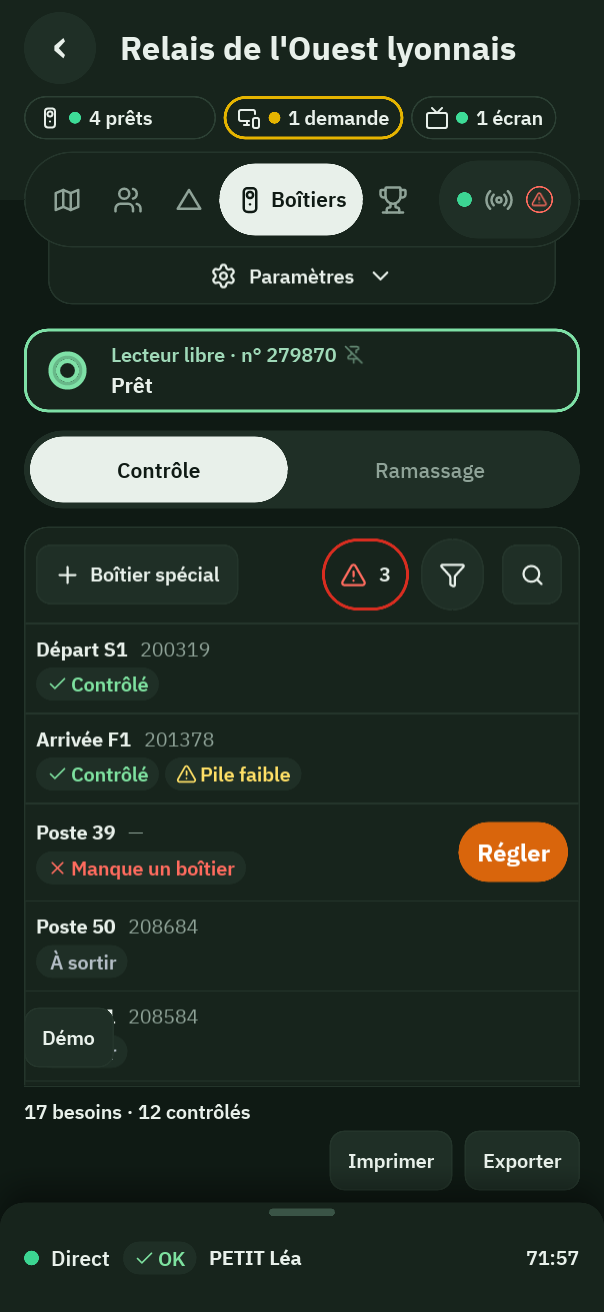
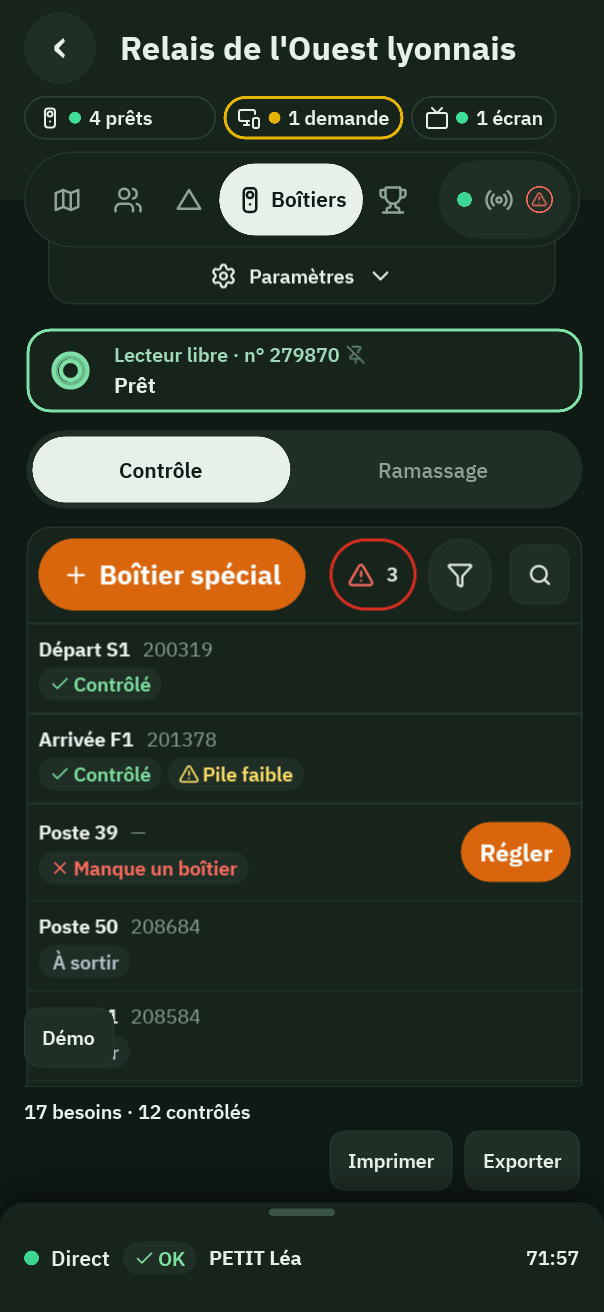
Smaller bubbles, orange special station, runner base under the header
- Filter pills are as wide as their word and wrap (FlexboxLayout);
  bubbles are 340 px wide, as in the zones-and-tabs brief.
- « Boîtier spécial » is the orange action of the Boîtiers tab.
- Coureurs et clubs has no Paramètres tab: its content starts right
  under the header.

diff --git a/ECRANS.md b/ECRANS.md
@@ -25,14 +25,14 @@ Appliqué aux écrans 2 à 10 : bulle d'onglets à cheval sur l'en-tête, langue
 - **Direct** : gardé en volet (décision de Robin du 10/11), donc 5 onglets dans la bulle et le bouton Direct à son bout ; pas de languette.
 - **Languette sur téléphone** : « Paramètres » seul, le résumé se lit en l'ouvrant (Robin, 10/11) ; flèche `chevron-down` ajoutée à la charte avec `funnel`.
 - **Filtres actifs sur téléphone** : l'entonnoir et leur nombre, sans les étiquettes, qui ne tiendraient pas.
-- **Groupes de filtres ajoutés** : Participants « À vérifier » (Doublons possibles, Catégorie inconnue) et l'état « PM », pour que chaque « Voir » de l'alerte ait son filtre ; Direct « Lectures : À traiter » ; Coureurs, un seul groupe « Coureurs » (licence et pratique mêlées, un seul choix).
-- **Bulles des filtres et de l'alerte** : collées à leur bouton, comme les autres bulles (variante B), au lieu de flotter dessous comme sur les captures du brief.
+- **Groupes de filtres ajoutés** (validés par Robin le 11/11) : Participants « À vérifier » (Doublons possibles, Catégorie inconnue) et l'état « PM », pour que chaque « Voir » de l'alerte ait son filtre ; Direct « Lectures : À traiter » ; Coureurs, un seul groupe « Coureurs » (licence et pratique mêlées, un seul choix).
+- **Bulles des filtres et de l'alerte** : collées à leur bouton, comme les autres bulles (variante B). Ramenées à 340 px de large, comme les captures du brief ; chaque pastille de filtre a la largeur de son mot et passe à la ligne s'il le faut (Robin, 11/11 : « beaucoup trop grandes »). Sur téléphone, la bulle des filtres défile si elle touche la bande du bas.
 - **Indicateurs sur iPad portrait** : sous le nom de l'événement, sinon la bulle cachait la 2ᵉ ligne du nom.
-- **Boîtiers** : « Boîtier spécial » reste blanc, la carte de lecture ayant déjà son bouton orange. Contrôle / Ramassage reste un affichage, dans le volet.
+- **Boîtiers** : « Boîtier spécial » en orange (Robin, 11/11 : l'orange va aux boutons importants et souvent utilisés). Contrôle / Ramassage reste un affichage, dans le volet.
 - **Circuits** : pas de filtre ; « Mettre en avant » reste un affichage. Les réglages d'un circuit restent dans sa carte.
 - **Résultats** : le choix du classement reste dans le volet ; seules les catégories d'un classement par circuit passent dans les Filtres.
 - **Puces et Boîtiers du club** : le choix du parc reste un affichage (volet, ou pastilles sur téléphone) ; la languette donne la description du parc.
-- **Coureurs et clubs** : pas de paramètres, donc pas de languette ; « Ajouter un coureur » passe en orange.
+- **Coureurs et clubs** : pas de paramètres, donc pas de languette ; le contenu monte juste sous l'en-tête, la page étant indépendante (Robin, 11/11) ; « Ajouter un coureur » passe en orange.
 - **Fiche** : ses boutons orange passent en blanc (« Garder le premier résultat ») ; les actions de ligne restent orange.
 - **Non testé** : Échap au clavier, iPad paysage, la fiche ouverte sur toutes les pages du club.
 

diff --git a/CLAUDE.md b/CLAUDE.md
@@ -22,7 +22,7 @@ Le code pourra servir de point de départ à l'app (à confirmer avec Severin) :
 ## Navigation (cadrage validé)
 - Comme le prototype : l'**Accueil** est une page qui défile, **sans onglets**, avec deux sections : Événements et Le club.
 - Depuis Le club : Puces de prêt (stock de prêt), Boîtiers (inventaire du club), Coureurs et clubs (base fédérale). Retour par « ‹ Accueil » (« ‹ » seul en largeur étroite).
-- Paramètres (brief zones-onglets, 10/11/2026) : une languette « ⚙ Paramètres : résumé » centrée, accrochée sous la bulle des onglets (sous l'en-tête sur les pages du club), qui se déplie par-dessus le contenu. Sans paramètres : pas de languette, le contenu commence à la même hauteur. Les réglages d'un circuit ou d'un point de départ restent dans leur carte.
+- Paramètres (brief zones-onglets, 10/11/2026) : une languette « ⚙ Paramètres : résumé » centrée, accrochée sous la bulle des onglets (sous l'en-tête sur les pages du club), qui se déplie par-dessus le contenu. Sans paramètres : pas de languette ; dans un événement, le contenu commence à la même hauteur ; sur une page du club (Coureurs et clubs), il monte sous l'en-tête. Les réglages d'un circuit ou d'un point de départ restent dans leur carte.
 - Un événement : 5 onglets **toujours présents**, dans l'ordre : Circuits · Participants · Départs · Boîtiers · Résultats, dans une bulle blanche à cheval sur l'en-tête. Le **Direct** est un volet qui monte d'en bas (sa barre reste visible) ; son bouton est au bout de la bulle (Robin, 5/11 et 10/11).
 - Deux niveaux de navigation, pas plus. Le détail (fiche) glisse depuis la droite par-dessus le contenu, à toutes les largeurs, sans voile ; sur téléphone il monte du bas, avec un voile.
 
@@ -43,7 +43,7 @@ Une place par fonction, à tous les écrans :
 - **En tête de la carte du contenu** : à gauche l'action d'ajout en orange, puis les segments d'affichage ; à droite, dans cet ordre, l'alerte, le bouton Filtres (entonnoir), la recherche. Le « Voir » de l'alerte applique son filtre.
 - **Filtres** : tous dans le bouton Filtres et sa bulle (un groupe par critère) ; les filtres actifs dans le bouton, chacun avec sa croix. Les affichages (Tableau / Lignes / Carte, Liste / Frise, Contrôle / Ramassage, « Mettre en avant ») restent des segments.
 - **Bande du bas**, collée à la fenêtre : chiffres à gauche, actions de la page à droite.
-- Un seul bouton orange par écran, hors actions de ligne.
+- Un seul bouton orange par écran, hors actions de ligne : les boutons importants et souvent utilisés (Robin, 11/11).
 - Seul le contenu défile, et les titres d'un tableau restent en haut. Sur téléphone, c'est la page qui défile, jamais de côté ; la recherche est une loupe qui se déplie.
 - Un aspect = un usage : ne pas donner le même dessin à un affichage et à un filtre.
 - Rien ne change de taille tout seul (lecture, alerte, appareil) : place réservée.
